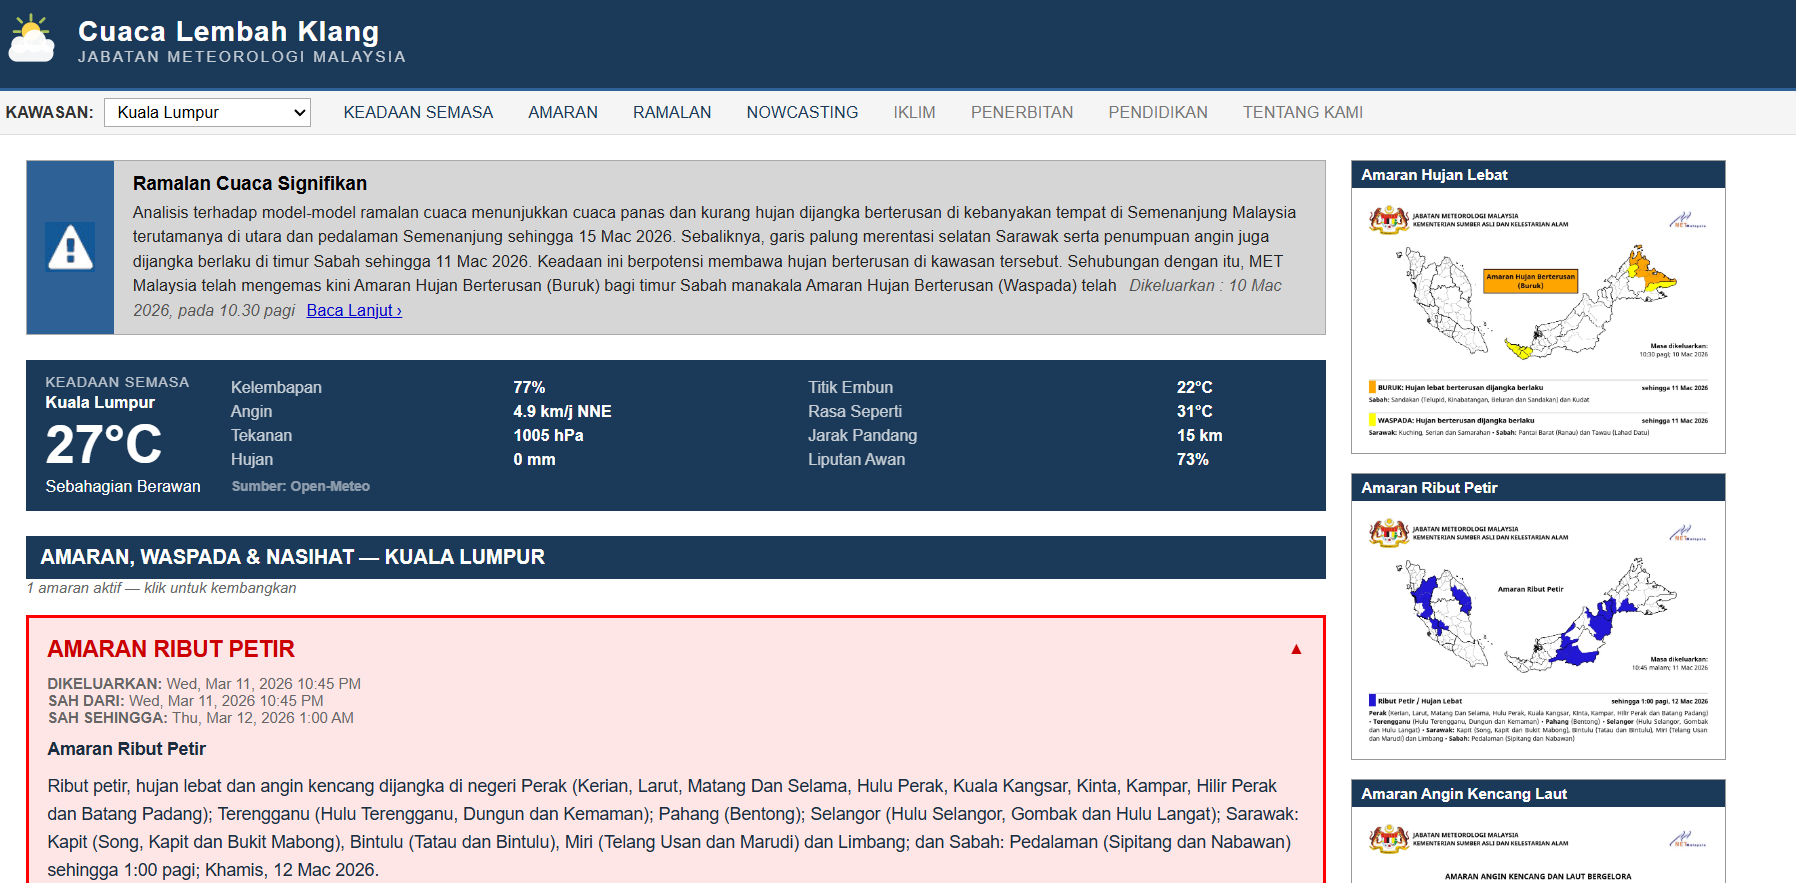
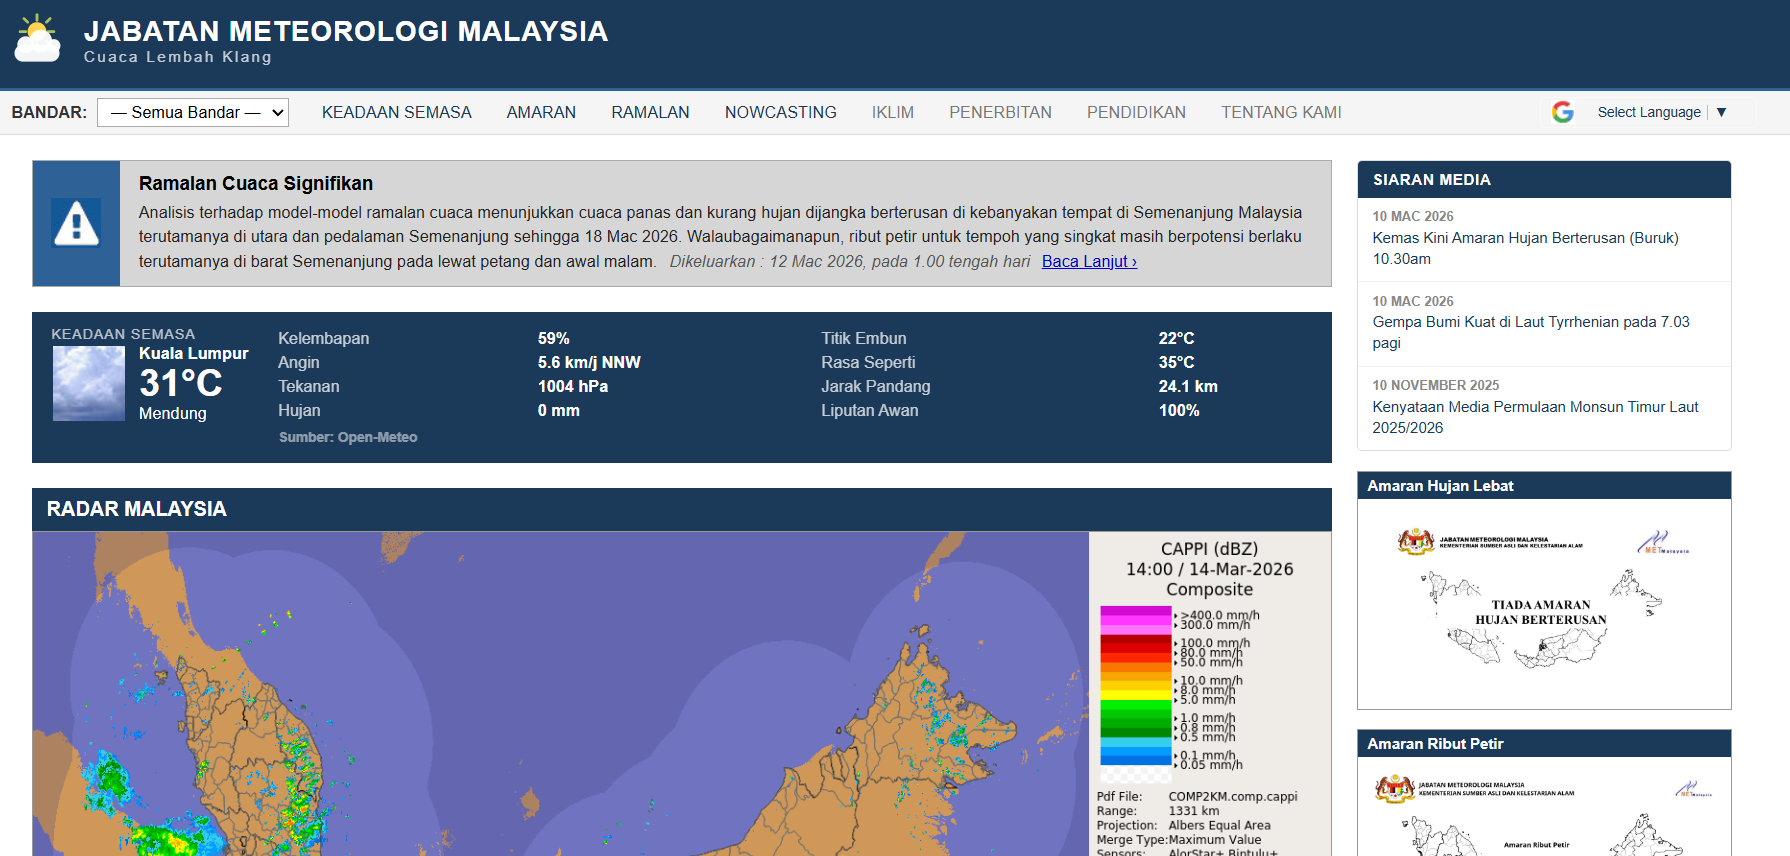
final push

diff --git a/style.css b/style.css
@@ -207,14 +207,12 @@ body {
 .conditions-location {
     font-size: 13px;
     font-weight: bold;
-    margin-bottom: 6px;
 }
 
 .conditions-temp {
-    font-size: 42px;
+    font-size: 30px;
     font-weight: bold;
-    line-height: 1;
-    margin-bottom: 4px;
+    line-height: 1.1;
 }
 
 .conditions-weather {
@@ -535,6 +533,76 @@ tr:nth-child(even) { background: #F5F5F5; }
 
 .footer a:hover {
     text-decoration: underline;
+}
+
+/* Siaran Media sidebar box */
+.siaran-media-box {
+    background: #fff;
+    border: 1px solid #ddd;
+    border-radius: 4px;
+    margin-bottom: 16px;
+    overflow: hidden;
+}
+
+.sidebar-box-title {
+    background: #1b3958;
+    color: #fff;
+    font-size: 12px;
+    font-weight: 700;
+    letter-spacing: 0.05em;
+    padding: 8px 12px;
+}
+
+.siaran-media-list {
+    list-style: none;
+    margin: 0;
+    padding: 0;
+}
+
+.siaran-media-list li {
+    padding: 10px 12px;
+    border-bottom: 1px solid #eee;
+    display: flex;
+    flex-direction: column;
+    gap: 2px;
+}
+
+.siaran-media-list li:last-child {
+    border-bottom: none;
+}
+
+.siaran-date {
+    font-size: 10px;
+    color: #888;
+    font-weight: 600;
+    text-transform: uppercase;
+    letter-spacing: 0.03em;
+}
+
+.siaran-title {
+    font-size: 12px;
+    color: #1b3958;
+    line-height: 1.4;
+}
+
+/* Google Translate nav widget */
+.nav-translate {
+    margin-left: auto;
+    display: flex;
+    align-items: center;
+}
+
+.nav-translate .goog-te-gadget-simple {
+    background: transparent;
+    border: 1px solid rgba(255,255,255,0.4) !important;
+    border-radius: 3px;
+    padding: 2px 6px;
+}
+
+.nav-translate .goog-te-gadget-simple a,
+.nav-translate .goog-te-gadget-simple span {
+    color: #1b3958 !important;
+    font-size: 11px !important;
 }
 
 @media (max-width: 1024px) {

diff --git a/index.php b/index.php
@@ -238,6 +238,7 @@ if ($warningData) {
 // Fetch current conditions from Open-Meteo (free, no key)
 $currentTemp = $currentWeather = $currentHumidity = $currentWind = null;
 $currentFeelsLike = $currentDewpoint = $currentPrecip = $currentCloud = $currentPressure = $currentVisibility = $currentWindDir = null;
+$wcode = null;
 $coords = null;
 foreach ($townCoords as $town => $c) {
     if (stripos($selectedLocation, $town) !== false || stripos($town, $selectedLocation) !== false) {
@@ -278,6 +279,34 @@ function windDirCompass($deg) {
     return $dirs[round($deg / 22.5) % 16];
 }
 
+// Map WMO weather code to NWS forecast icon URL
+function wmoToNwsIcon($wcode, $isDay = true) {
+    $base = 'https://forecast.weather.gov/images/wtf/';
+    $d    = $isDay;
+    $map  = [
+        0  => $d ? 'skc'  : 'nskc',   // Clear sky
+        1  => $d ? 'few'  : 'nfew',   // Mainly clear
+        2  => $d ? 'sct'  : 'nsct',   // Partly cloudy
+        3  => $d ? 'ovc'  : 'novc',   // Overcast
+        45 => $d ? 'fg'   : 'nfg',    // Fog
+        48 => $d ? 'fg'   : 'nfg',    // Icy fog
+        51 => $d ? 'ra'   : 'nra',    // Light drizzle
+        53 => $d ? 'ra'   : 'nra',    // Drizzle
+        55 => $d ? 'ra'   : 'nra',    // Dense drizzle
+        61 => $d ? 'ra'   : 'nra',    // Slight rain
+        63 => $d ? 'ra'   : 'nra',    // Moderate rain
+        65 => $d ? 'ra'   : 'nra',    // Heavy rain
+        80 => 'shra',                  // Slight showers
+        81 => 'shra',                  // Moderate showers
+        82 => 'shra',                  // Violent showers
+        95 => $d ? 'tsra' : 'ntsra',  // Thunderstorm
+        96 => $d ? 'tsra' : 'ntsra',  // Thunderstorm + hail
+        99 => $d ? 'tsra' : 'ntsra',  // Heavy thunderstorm
+    ];
+    $icon = $map[$wcode] ?? ($d ? 'sct' : 'nsct');
+    return $base . $icon . '.jpg';
+}
+
 // Keywords from CSV: all Klang Valley location names + state names
 $kvKeywords = array_map('strtolower', array_merge($klangValleyStates, $klangValleyLocNames));
 
@@ -312,6 +341,25 @@ $currentTime = date('l, F j, Y g:i A');
     <meta name="viewport" content="width=device-width, initial-scale=1.0">
     <title>Cuaca Lembah Klang — Jabatan Meteorologi Malaysia (Prototaip)</title>
     <link rel="stylesheet" href="style.css?v=<?php echo filemtime(__DIR__.'/style.css'); ?>">
+    <style>
+        /* NWS weather icon next to city/temp/description */
+        .conditions-temp-row {
+            display: flex;
+            align-items: center;
+            gap: 10px;
+        }
+        .conditions-wx-icon {
+            width: 60px;
+            height: 60px;
+            object-fit: contain;
+            flex-shrink: 0;
+        }
+        .conditions-main-info {
+            display: flex;
+            flex-direction: column;
+            justify-content: center;
+        }
+    </style>
 </head>
 <body>
     <div class="header">
@@ -331,9 +379,9 @@ $currentTime = date('l, F j, Y g:i A');
 		<div class="container">
 			<div class="nav-inner">
 				<form method="get" action="" class="nav-form">
-					<label for="loc-select" class="nav-label">KAWASAN:</label>
+					<label for="loc-select" class="nav-label">BANDAR:</label>
 					<select id="loc-select" name="location" onchange="this.form.submit();" class="nav-select">
-						<option value="" <?php echo ($selectedLocation === '') ? 'selected' : ''; ?>>— Semua Kawasan —</option>
+						<option value="" <?php echo ($selectedLocation === '') ? 'selected' : ''; ?>>— Semua Bandar —</option>
 						<?php foreach ($allLocationNames as $name): ?>
 						<option value="<?php echo htmlspecialchars($name); ?>" <?php echo ($name === $selectedLocation) ? 'selected' : ''; ?>>
 							<?php echo htmlspecialchars($name); ?>
@@ -349,6 +397,7 @@ $currentTime = date('l, F j, Y g:i A');
 				<span class="nav-item">PENERBITAN</span>
 				<span class="nav-item">PENDIDIKAN</span>
 				<span class="nav-item">TENTANG KAMI</span>
+				<div id="google_translate_element" class="nav-translate"></div>
 			</div>
 		</div>
     </div>
@@ -384,16 +433,28 @@ $currentTime = date('l, F j, Y g:i A');
 					if (!isset($displayLocation) || $displayLocation === null || trim($displayLocation) === '' || strtolower($displayLocation) === 'null') {
 						$displayLocation = 'Kuala Lumpur';
 					}
+					// Determine day (6am–8pm KL time) for icon selection
+					$isDay = (int)date('H', time()) >= 6 && (int)date('H', time()) < 20;
 					?>
 
 					<div id="current-conditions" class="current-conditions">
 
-						<!-- Kiri: suhu besar + keadaan -->
+						<!-- Kiri: ikon + bandar/suhu/keadaan -->
 						<div class="conditions-left">
 							<div class="conditions-label">Keadaan Semasa</div>
-							<div class="conditions-location"><?php echo htmlspecialchars($displayLocation); ?></div>
-							<div class="conditions-temp"><?php echo round($currentTemp); ?>°C</div>
-							<div class="conditions-weather"><?php echo htmlspecialchars($currentWeather ?? ''); ?></div>
+							<div class="conditions-temp-row">
+								<?php if ($wcode !== null): ?>
+								<img src="<?php echo htmlspecialchars(wmoToNwsIcon($wcode, $isDay)); ?>"
+								     alt="<?php echo htmlspecialchars($currentWeather ?? ''); ?>"
+								     class="conditions-wx-icon"
+								     title="<?php echo htmlspecialchars($currentWeather ?? ''); ?>">
+								<?php endif; ?>
+								<div class="conditions-main-info">
+									<div class="conditions-location"><?php echo htmlspecialchars($displayLocation); ?></div>
+									<div class="conditions-temp"><?php echo round($currentTemp); ?>°C</div>
+									<div class="conditions-weather"><?php echo htmlspecialchars($currentWeather ?? ''); ?></div>
+								</div>
+							</div>
 						</div>
 
 						<!-- Kanan: jadual butiran -->
@@ -432,6 +493,21 @@ $currentTime = date('l, F j, Y g:i A');
 					</div>
 
 					<?php endif; ?>
+
+                    <!-- RADAR MALAYSIA -->
+                    <div id="radar" class="section">
+                        <div class="section-title">RADAR MALAYSIA</div>
+                        <div class="radar-wrap">
+                            <img src="https://www.met.gov.my/data/radar_malaysia.gif?<?php echo time(); ?>"
+                                 alt="Radar Cuaca Malaysia"
+                                 class="radar-img">
+                            <div class="radar-caption">
+                                Komposit Radar Cuaca Malaysia &mdash;
+                                <a href="https://www.met.gov.my" target="_blank">MetMalaysia</a>
+                                &bull; Dikemaskini setiap ~10 minit
+                            </div>
+                        </div>
+                    </div>
 
                     <!-- BAHAGIAN AMARAN -->
                     <div id="warnings" class="warning-section">
@@ -479,21 +555,6 @@ $currentTime = date('l, F j, Y g:i A');
                                 </div>
                             <?php endforeach; ?>
                         <?php endif; ?>
-                    </div>
-
-                    <!-- RADAR MALAYSIA -->
-                    <div id="radar" class="section">
-                        <div class="section-title">RADAR MALAYSIA</div>
-                        <div class="radar-wrap">
-                            <img src="https://www.met.gov.my/data/radar_malaysia.gif?<?php echo time(); ?>"
-                                 alt="Radar Cuaca Malaysia"
-                                 class="radar-img">
-                            <div class="radar-caption">
-                                Komposit Radar Cuaca Malaysia &mdash;
-                                <a href="https://www.met.gov.my" target="_blank">MetMalaysia</a>
-                                &bull; Dikemaskini setiap ~10 minit
-                            </div>
-                        </div>
                     </div>
 
                     <!-- BAHAGIAN RAMALAN -->
@@ -553,6 +614,25 @@ $currentTime = date('l, F j, Y g:i A');
                 </div>
 
                 <div class="sidebar">
+
+                    <!-- SIARAN MEDIA -->
+                    <div class="sidebar-box siaran-media-box">
+                        <div class="sidebar-box-title">SIARAN MEDIA</div>
+                        <ul class="siaran-media-list">
+                            <li>
+                                <span class="siaran-date">10 Mac 2026</span>
+                                <span class="siaran-title">Kemas Kini Amaran Hujan Berterusan (Buruk) 10.30am</span>
+                            </li>
+                            <li>
+                                <span class="siaran-date">10 Mac 2026</span>
+                                <span class="siaran-title">Gempa Bumi Kuat di Laut Tyrrhenian pada 7.03 pagi</span>
+                            </li>
+                            <li>
+                                <span class="siaran-date">10 November 2025</span>
+                                <span class="siaran-title">Kenyataan Media Permulaan Monsun Timur Laut 2025/2026</span>
+                            </li>
+                        </ul>
+                    </div>
 
                     <!-- PETA AMARAN MET -->
                     <?php
@@ -623,6 +703,17 @@ $currentTime = date('l, F j, Y g:i A');
         </div>
     </footer>
 
+
+    <script type="text/javascript">
+        function googleTranslateElementInit() {
+            new google.translate.TranslateElement({
+                pageLanguage: 'ms',
+                layout: google.translate.TranslateElement.InlineLayout.SIMPLE,
+                autoDisplay: false
+            }, 'google_translate_element');
+        }
+    </script>
+    <script type="text/javascript" src="//translate.google.com/translate_a/element.js?cb=googleTranslateElementInit"></script>
 
     <script>
         function toggleWarning(bodyId, iconId) {
